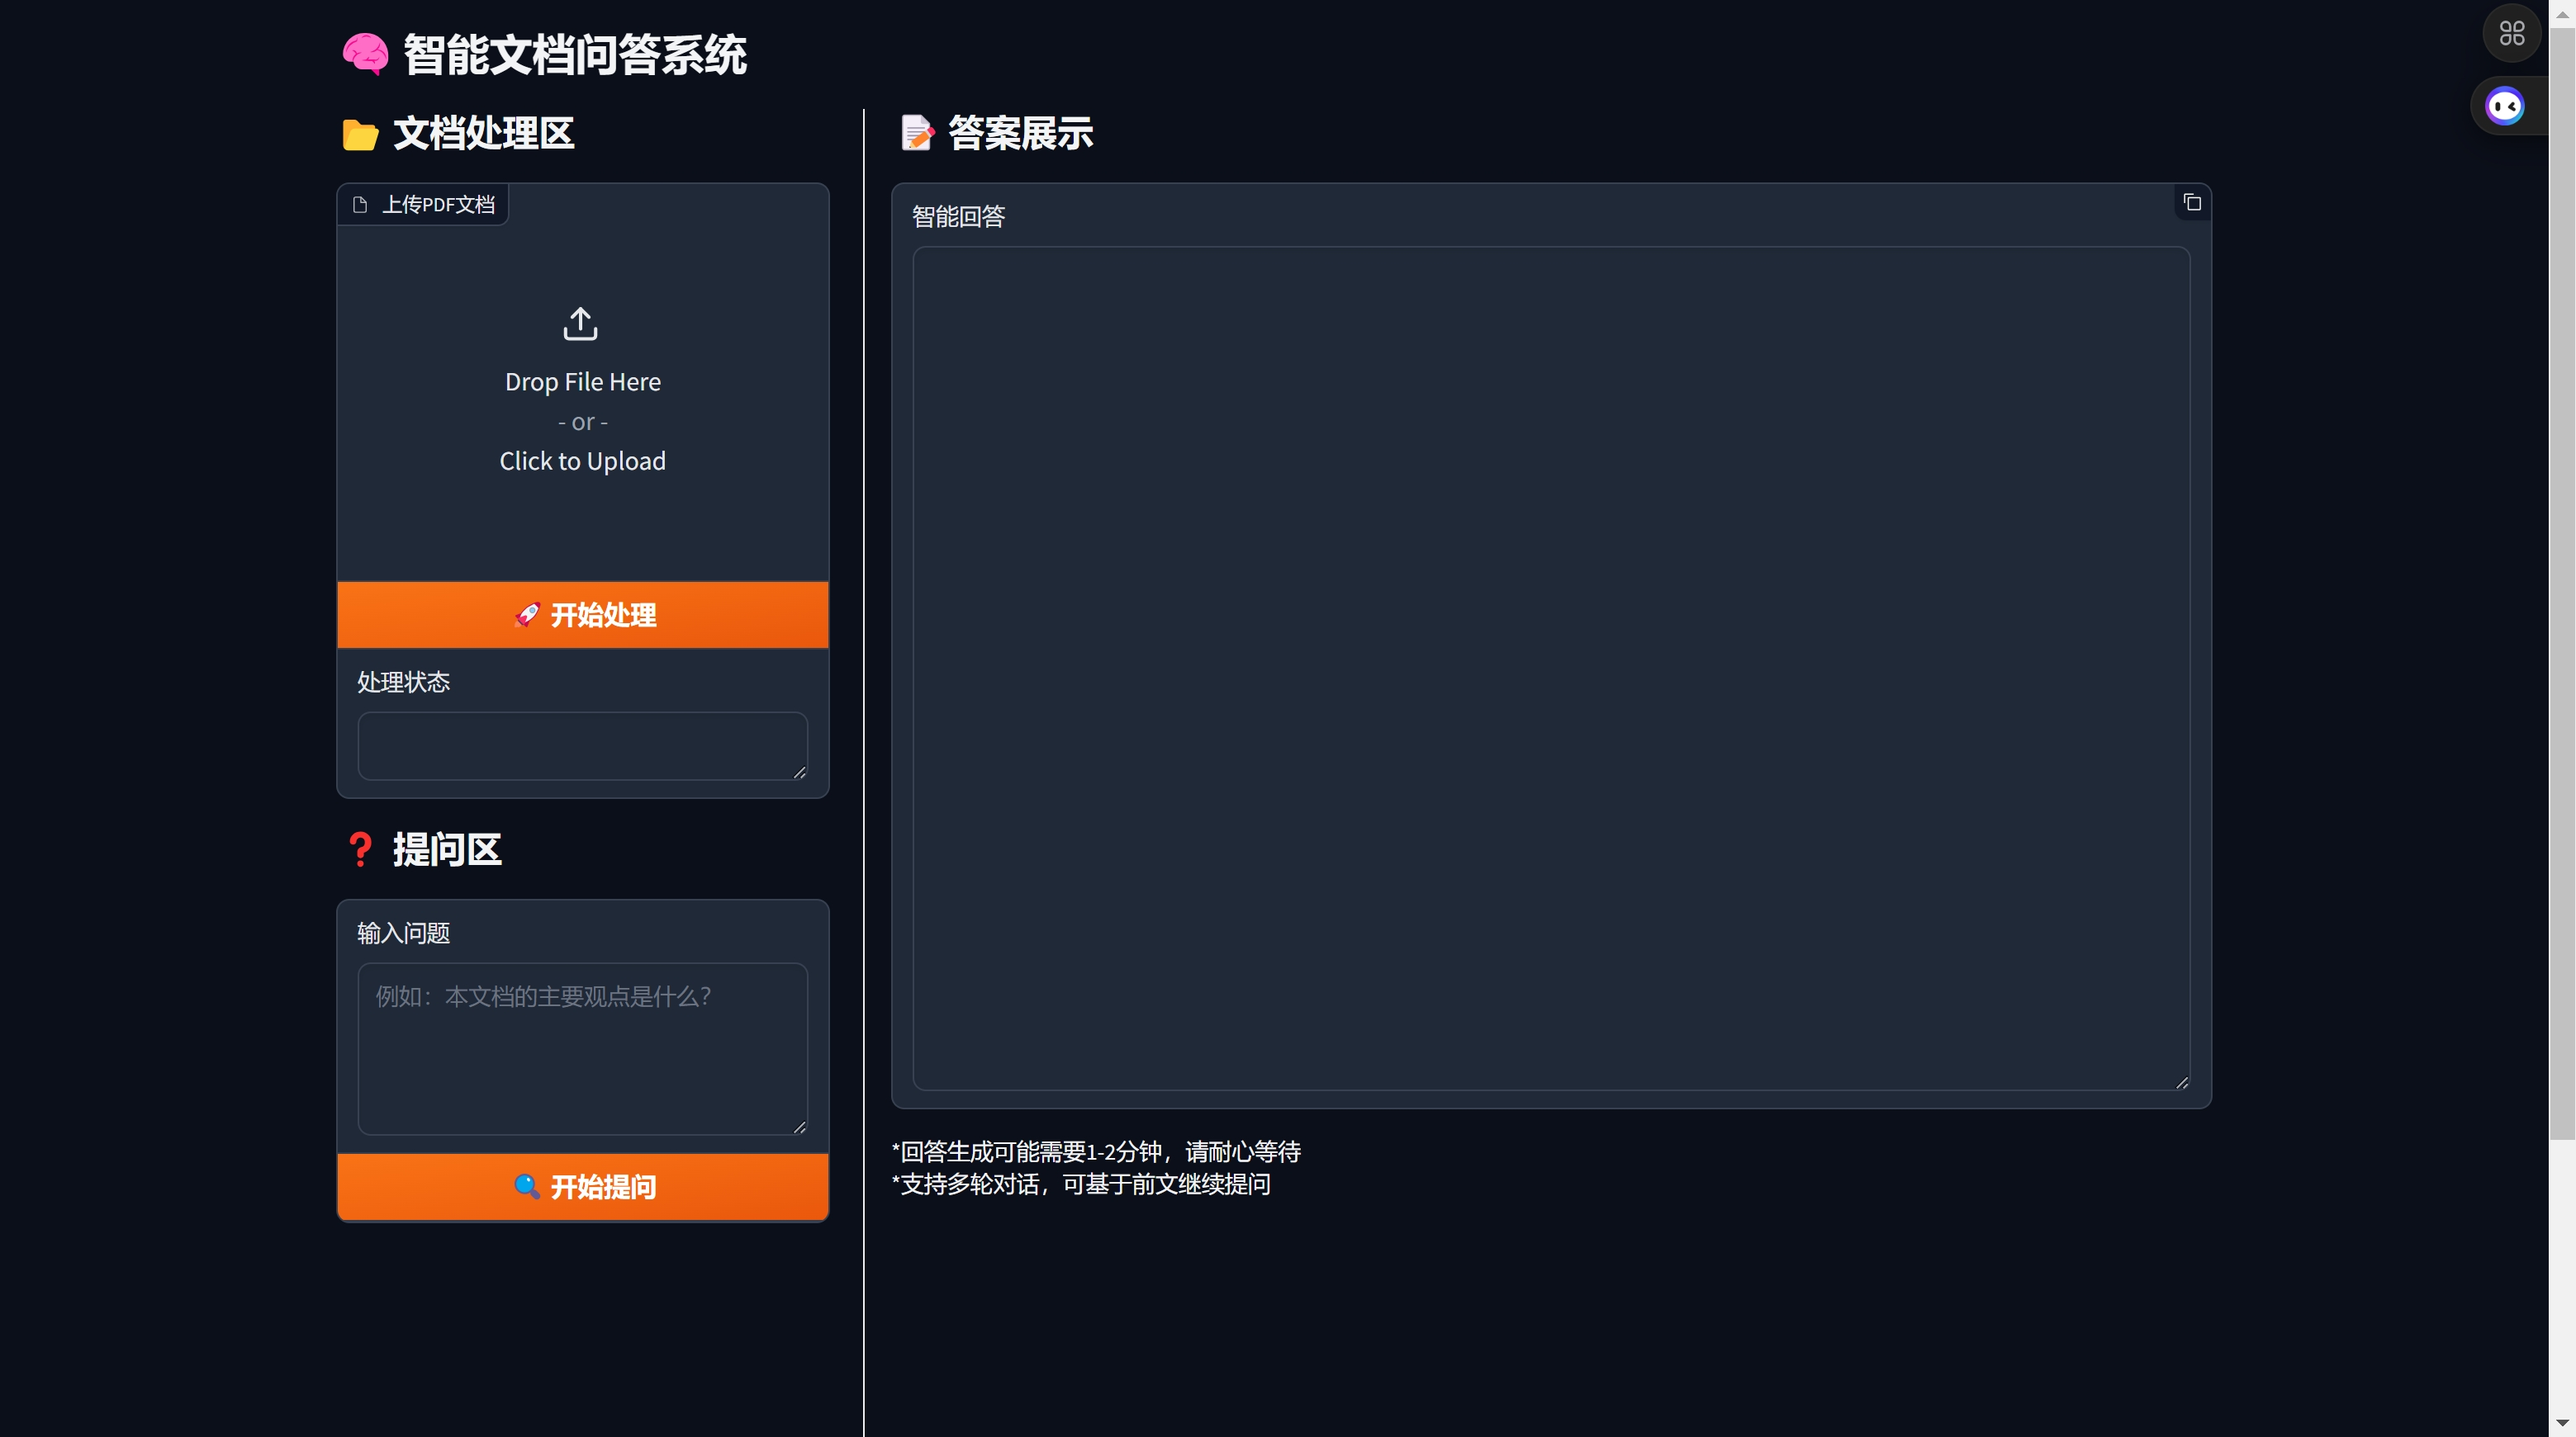
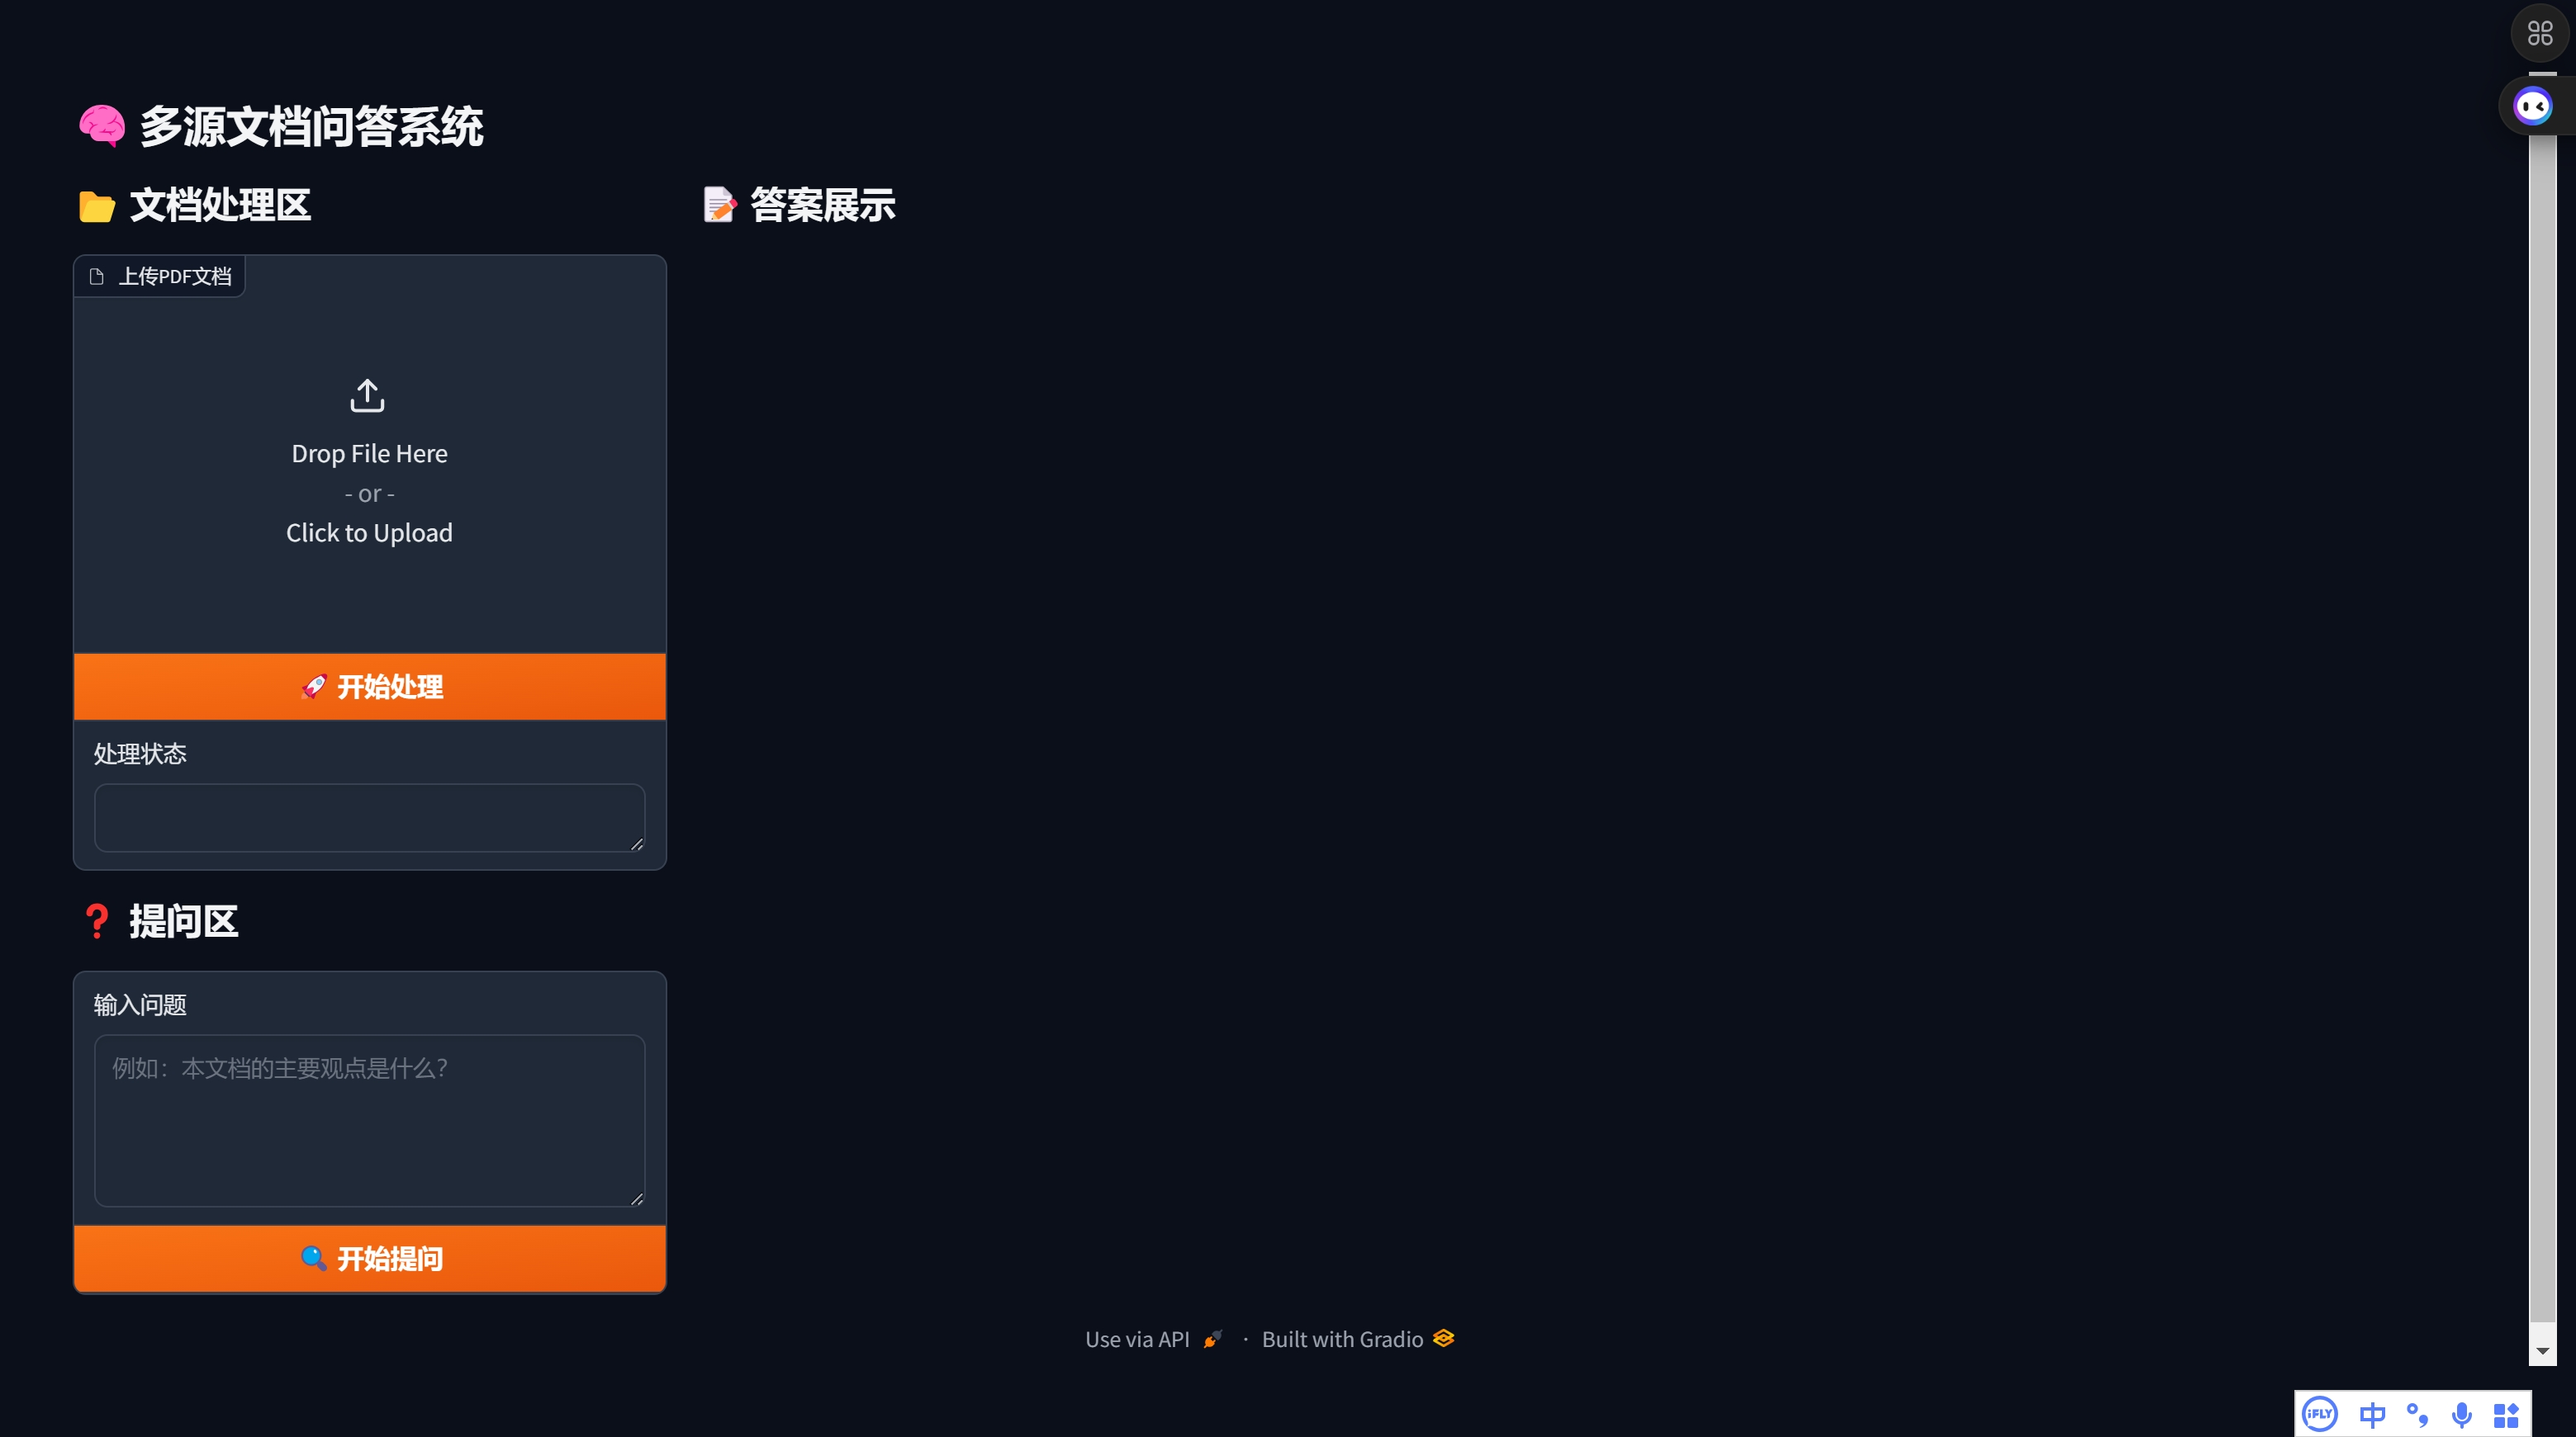
feat: 添加REST API支持，包含文档上传和问答接口；更新文档说明

diff --git a/api_router.py b/api_router.py
@@ -1,0 +1,95 @@
+"""
+REST API 模块（使用FastAPI实现）
+"""
+from fastapi import FastAPI, UploadFile, File, HTTPException
+from fastapi.middleware.cors import CORSMiddleware
+from pydantic import BaseModel
+import tempfile
+import os
+import re  # 添加正则模块导入
+from typing import Dict, Any
+import logging
+from combined_rag import process_pdf, combined_query_answer
+
+app = FastAPI(
+    title="本地RAG API服务",
+    description="提供基于本地大模型的文档问答API接口",
+    version="1.0.0"
+)
+
+# 允许跨域
+app.add_middleware(
+    CORSMiddleware,
+    allow_origins=["*"],
+    allow_credentials=True,
+    allow_methods=["*"],
+    allow_headers=["*"],
+)
+
+class QuestionRequest(BaseModel):
+    question: str
+    enable_web: bool = True
+
+class AnswerResponse(BaseModel):
+    answer: str
+    sources: list[Dict[str, Any]]
+    confidence: float
+
+@app.post("/api/upload", summary="上传PDF文档")
+async def upload_pdf(file: UploadFile = File(...)):
+    """
+    处理PDF文档并存入向量数据库
+    - 支持格式：application/pdf
+    - 最大文件大小：50MB
+    """
+    if file.content_type != "application/pdf":
+        raise HTTPException(400, "仅支持PDF文件")
+
+    try:
+        # 保存临时文件
+        suffix = os.path.splitext(file.filename)[1]
+        with tempfile.NamedTemporaryFile(suffix=suffix, delete=False) as tmp:
+            content = await file.read()
+            tmp.write(content)
+            tmp_path = tmp.name
+
+        # 调用现有处理逻辑
+        result = process_pdf(tmp_path, _dummy_progress)
+        os.unlink(tmp_path)  # 清理临时文件
+
+        return {"status": "success", "chunks": result.split(" ")[3]}
+    except Exception as e:
+        logging.error(f"PDF处理失败: {str(e)}")
+        raise HTTPException(500, "文档处理失败") from e
+
+@app.post("/api/ask", response_model=AnswerResponse, summary="提出问题")
+async def ask_question(req: QuestionRequest):
+    """
+    问答接口
+    - question: 问题内容
+    - enable_web: 是否启用网络搜索增强（默认True）
+    """
+    try:
+        # 调用现有问答逻辑
+        answer_html = combined_query_answer(req.question, _dummy_progress)
+        
+        # 从HTML提取纯文本和来源（需适配现有格式）
+        answer_text = re.sub('<[^<]+?>', '', answer_html)
+        sources = re.findall(r'data-source="([^"]+)"', answer_html)
+        
+        return {
+            "answer": answer_text,
+            "sources": [{"source": s} for s in sources],
+            "confidence": 0.8  # 示例置信度，实际可添加评估逻辑
+        }
+    except Exception as e:
+        logging.error(f"问答失败: {str(e)}")
+        raise HTTPException(500, "问答处理失败") from e
+
+def _dummy_progress(percent: float, desc: str = None):
+    """替代Gradio进度回调的虚拟方法"""
+    logging.info(f"[进度 {percent*100:.1f}%] {desc}")
+
+if __name__ == "__main__":
+    import uvicorn
+    uvicorn.run(app, host="0.0.0.0", port=17995) 

diff --git a/readme.md b/readme.md
@@ -1,21 +1,33 @@
-# 本地RAG问答系统
+# 本地RAG问答系统(可联网搜索）
 
-🚀 基于本地大模型的智能文档问答系统，支持PDF文档解析与自然语言问答
+🚀 基于本地大模型的智能文档问答系统，支持PDF文档解析与自然语言问答，🎯新增联网搜索增强能力
 
 ## 为什么选择本地RAG？
 
 🔒 **私有数据安全**：全程本地处理，敏感文档无需上传第三方服务
+
 ⚡ **实时响应**：基于本地向量数据库实现毫秒级语义检索
+
 💡 **领域适配**：可针对专业领域文档定制知识库
-🌐 **离线可用**：无需互联网连接，保护数据隐私
+
+🌐 **离线/在线双模式**：🎯支持本地文档与网络结果智能融合
+
 💰 **成本可控**：避免云服务按次计费，长期使用成本更低
 
 ## 功能特性
 
 📄 PDF文档解析与向量化存储
+
 🧠 基于DeepSeek-7B本地大模型
+
 ⚡ 流式回答生成
+
 🔍 语义检索与上下文理解
+
+🎯🌐 联网搜索增强（SerpAPI集成）
+
+🎯🔗 多源结果智能整合与矛盾检测
+
 🖥 友好的Web交互界面
 
 ## 快速开始
@@ -25,6 +37,7 @@
 - Python 3.9+
 - 内存：至少8GB
 - 显存：至少4GB（推荐8GB）
+- 🎯 SerpAPI账号（免费额度可用，100次/月）
 
 ### 安装步骤
 
@@ -46,14 +59,20 @@ rag_env\Scripts\activate  # Windows
 pip install -r requirements.txt
 ```
 
-4. 安装Ollama服务：
+4. 配置环境变量：
+```bash
+# 复制示例文件
+cp .env.example .env
+# 编辑.env文件添加你的API密钥
+SERPAPI_KEY=your_serpapi_key_here
+```
+
+5. 安装Ollama服务：
 ```bash
 curl -fsSL https://ollama.com/install.sh | sh  # Linux/Mac
 winget install ollama  # Windows（需要管理员权限）
 
-
 ollama pull deepseek-r1:7b
-
 ```
 
 # 启动Ollama服务（Windows会自动注册服务）
@@ -65,14 +84,15 @@ ollama serve &
 
 1. 启动服务：
 ```bash
+.\rag_env\Scripts\activate
 python rag_demo.py
 ```
 2. 访问浏览器打开的本地地址（通常是`http://localhost:17995`）
 
 3. 操作流程：
    - 上传PDF文档（等待处理完成）
-   - 在提问区输入问题
-   - 查看实时生成的回答
+   - 在提问区输入问题（🎯时间敏感问题自动获取最新网络结果）
+   - 查看整合本地文档与网络搜索的智能回答
 
 ### 界面预览
 ![alt text](界面截图.png)
@@ -92,18 +112,40 @@ python rag_demo.py
    chunk_overlap=50  # 块间重叠
    ```
 
+3. 网络搜索设置：
+```python
+# 在combined_rag.py中调整搜索参数
+SEARCH_ENGINE = "google"  # 可选：bing, duckduckgo
+NUM_RESULTS = 5           # 默认获取5条网络结果
+```
+
+4. 结果排序策略：
+```python
+# 在combined_query_answer函数中调整排序逻辑
+sorted_items = sorted(
+    combined_items,
+    key=lambda x: (x["type"] != "web", -len(x["excerpt"]))
+)
+```
+
 ## 技术架构
-mermaid
+```mermaid
 graph TD
 A[用户界面] --> B[PDF解析]
 B --> C[文本向量化]
 C --> D[向量数据库]
 A --> E[问题输入]
-E --> F[语义检索]
-D --> F
-F --> G[大模型生成]
-G --> H[流式输出]
-
+E --> F{时间敏感?}
+F -->|是| G[网络搜索]
+G --> H[结果向量化]
+H --> D
+F -->|否| D
+D --> I[语义检索]
+I --> J[多源整合]
+J --> K[矛盾检测]
+K --> L[大模型生成]
+L --> M[流式输出]
+```
 
 ## RAG优化技巧
 
@@ -134,30 +176,118 @@ G --> H[流式输出]
 ## 常见问题
 
 Q: Ollama必须用Docker安装吗？
+
 A: 不需要！Ollama提供原生安装方式：
    - Linux/Mac: 直接运行安装脚本
    - Windows: 通过winget安装
    - 详细安装指南：https://ollama.com/download
 
 Q: 模型文件存储在哪里？
+
 A: 默认存储路径：
    - Windows: C:\Users\<用户名>\.ollama
    - Linux: ~/.ollama
    - Mac: ~/.ollama
 
 Q: 如何管理本地模型？
+
 A: 常用命令：
    - 查看已安装模型：ollama list
    - 删除模型：ollama rm <模型名>
    - 更新模型：ollama pull <模型名>
 
 Q: 处理大文件时内存不足怎么办？
+
 A: 尝试减小chunk_size参数值（建议不低于400）
 
 Q: 如何更换其他模型？
+
 A: 1. 使用`ollama pull <model-name>`下载新模型
    2. 修改代码中的模型名称参数
    3. 重启服务
 
+Q: 如何获取SerpAPI密钥？
+
+A: 1. 访问https://serpapi.com/ 注册账号
+   2. 在Dashboard获取API密钥
+   3. 填入项目的.env文件
+
+Q: 网络搜索结果如何与本地文档结合？
+
+A: 系统自动执行以下流程：
+   1. 时间敏感问题触发网络搜索
+   2. 结果向量化后存入同一数据库
+   3. 检索时综合本地与网络结果
+   4. 生成回答时标注数据来源
+
+Q: 如何禁用网络搜索功能？
+
+A: 在combined_rag.py中设置：
+```python
+# 改为False完全禁用网络功能
+SEARCH_ENABLED = True
+# 或保留功能但设置默认不搜索
+time_sensitive = False
+```
+
 ## 许可证
 MIT License
+
+## 📡 API接口使用
+
+### 启动API服务
+```bash
+pip install fastapi uvicorn python-multipart  # 新增依赖
+python api_router.py
+```
+
+### 接口说明
+
+#### 1. 上传文档
+```bash
+curl -X POST "http://localhost:17995/api/upload" \
+  -H "Content-Type: multipart/form-data" \
+  -F "file=@/path/to/document.pdf"
+```
+
+#### 2. 提出问题
+```bash
+curl -X POST "http://localhost:17995/api/ask" \
+  -H "Content-Type: application/json" \
+  -d '{"question": "文档的核心观点是什么？", "enable_web": true}'
+```
+
+#### 3. 直接调用Ollama（兼容OpenAI格式）
+```python
+from openai import OpenAI
+
+client = OpenAI(
+    base_url="http://localhost:11434/v1",
+    api_key="ollama"  # 任意非空字符串
+)
+
+response = client.chat.completions.create(
+    model="deepseek-r1:7b",
+    messages=[{"role": "user", "content": "解释神经网络的工作原理"}],
+    temperature=0.5,
+    response_format={"type": "json_object"}
+)
+```
+
+### 请求参数说明
+| 参数     | 类型    | 必填 | 说明                  |
+|----------|---------|------|---------------------|
+| question | string  | 是   | 问题内容（1-500字）   |
+| enable_web| boolean | 否   | 是否启用网络搜索增强  |
+
+### 响应格式
+```json
+{
+  "answer": "文档指出...",
+  "sources": [
+    {"source": "pdf", "page": 12},
+    {"source": "web", "url": "https://example.com"}
+  ],
+  "confidence": 0.85
+}
+```
